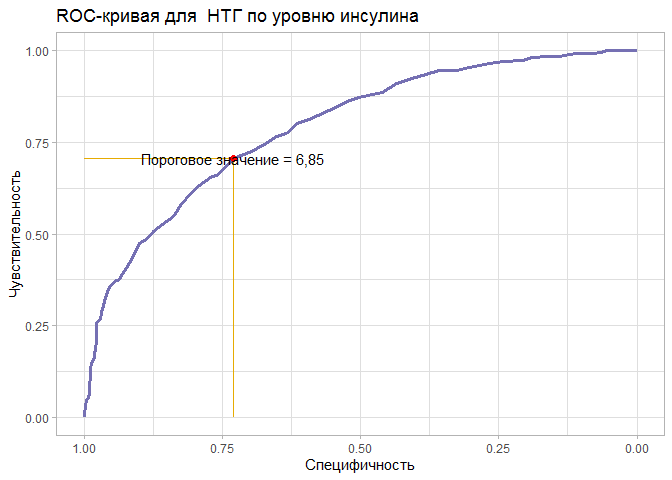
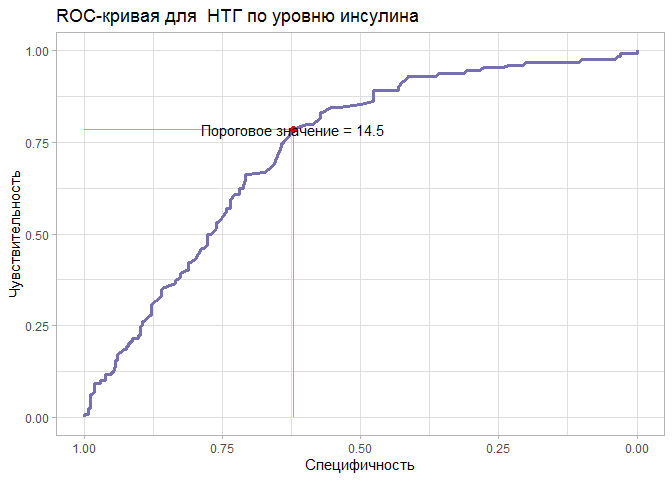
поправила задачу пять

diff --git a/clin_lab.md b/clin_lab.md
@@ -84,22 +84,23 @@ roc_1$ci
 # Постройте ROC-кривую и определите, какое пороговое значение является оптимальным для предсказания сахарного диабета по уровню инсулина? Какой чувствительностью и специфичностью обладает данный порог?
 
 ``` r
-roc_best <- roc_1 %>%
+roc_ins <- roc(Outcome ~ Insulin, data = df, ci = TRUE, quiet = TRUE)
+roc_best_ins <- roc_ins %>%
   coords(x = "best", best.method = "closest.topleft")
-roc_best
+roc_best_ins
 ```
 
     ##   threshold specificity sensitivity
-    ## 1      6.85   0.7303823   0.7067669
+    ## 1       121   0.6212121   0.7846154
 
 ``` r
-df1 <- data.frame(x = c(1, roc_best$specificity), y = roc_best$sensitivity)
-df2 <- data.frame(x = roc_best$specificity, y = c(0, roc_best$sensitivity))
-ggroc(roc_1, color = "#7570B3", size = 1.2) +
+df1 <- data.frame(x = c(1, roc_best_ins$specificity), y = roc_best_ins$sensitivity)
+df2 <- data.frame(x = roc_best_ins$specificity, y = c(0, roc_best_ins$sensitivity))
+ggroc(roc_ins, color = "#7570B3", size = 1.2) +
   geom_line(aes(x = x, y = y),data = df1, size = 0.5, color = "#E6AB02") +
   geom_line(aes(x = x, y = y),data = df2, size = 0.5, color = "#E6AB02") +
-  geom_point(aes(x = specificity, y = sensitivity), roc_best, color = "red", size = 2) +
-  geom_text(aes(x = specificity, y = sensitivity, label = "Пороговое значение = 6,85"), roc_best) +
+  geom_point(aes(x = specificity, y = sensitivity), roc_best_ins, color = "red", size = 2) +
+  geom_text(aes(x = specificity, y = sensitivity, label = "Пороговое значение = 14.5"), roc_best_ins) +
   labs(x = "Специфичность", y = "Чувствительность", title = "ROC-кривая для  НТГ по уровню инсулина") + 
   theme_light()
 ```
